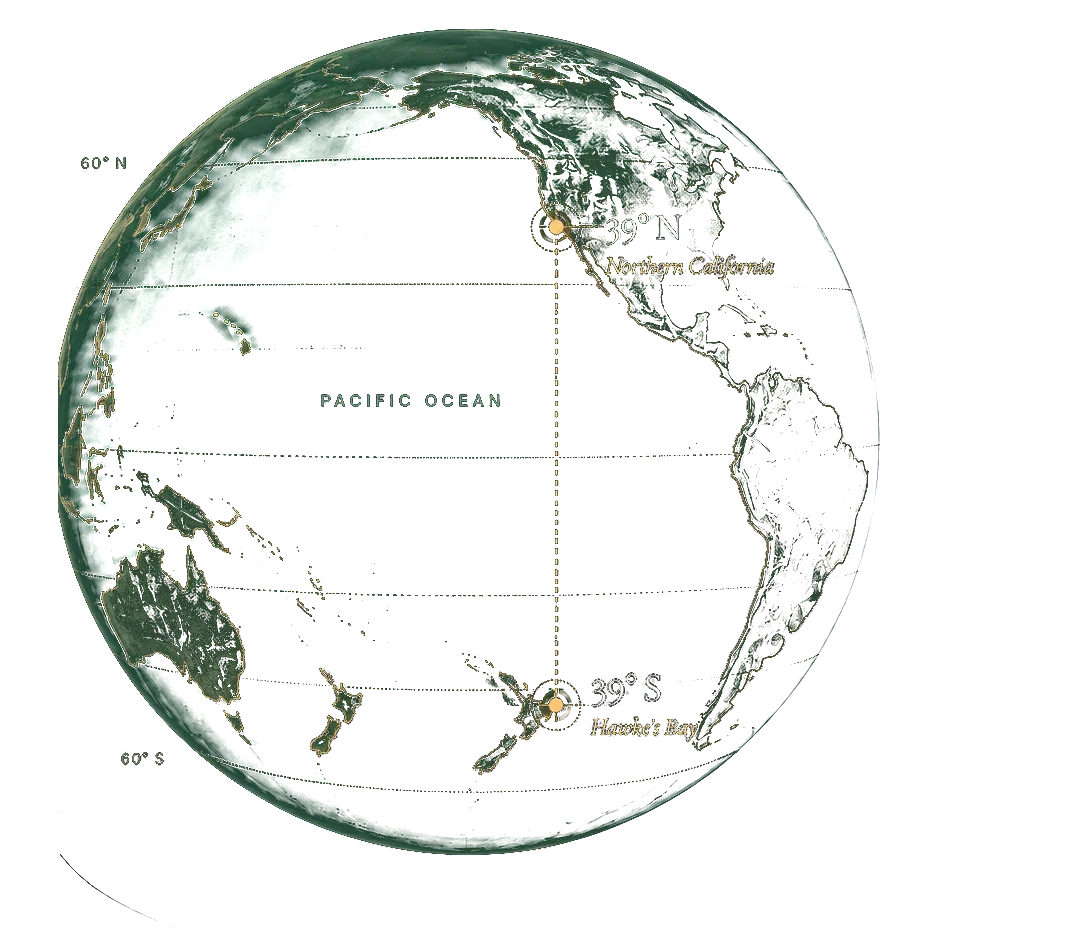
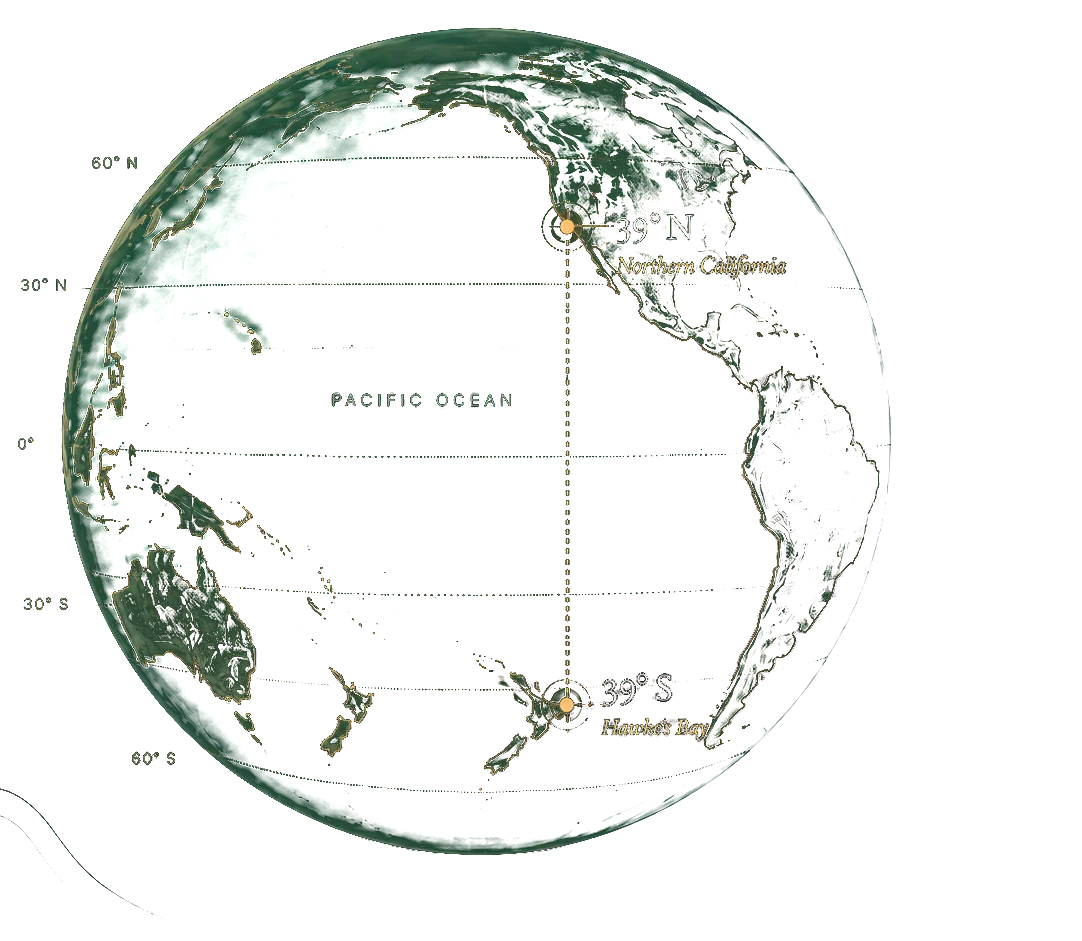
Cultivation: the CEO's third globe, every latitude label kept
This version carries no headline in the artwork, so the crop can sit
wider: the whole globe with 60N, 30N, 0, 30S and 60S all in. Keyed to the
black plate as before.

diff --git a/cultivation.html b/cultivation.html
@@ -1507,7 +1507,7 @@ html.no-video .hero-scroll{opacity:1;}
 .cl-par .cl-p{color:rgba(243,241,235,0.72);}
 .cl-question{margin:var(--s5) 0 0;font-family:var(--font-h);font-weight:300;font-size:clamp(1.5rem,2.4vw,2.2rem);line-height:1.25;max-width:22ch;color:var(--starlight);}
 .cl-par{background:#0a0d0c;}
-.cl-globe{margin:0;position:relative;aspect-ratio:1071/941;min-height:0;}
+.cl-globe{margin:0;position:relative;aspect-ratio:1082/941;min-height:0;}
 .cl-globe img{width:100%;height:100%;object-fit:cover;display:block;}
 
 /* 6 · CAPACITY - a moment of clarity: four numbers, then the statement */
@@ -1743,7 +1743,7 @@ html.no-video .hero-scroll{opacity:1;}
         <p class="cl-question reveal d3">What can exceptional cannabis expression look like in Hawke’s Bay?</p>
       </div>
       <figure class="cl-globe reveal d1">
-        <img src="assets/aho-39th-parallel-globe.webp" alt="A globe of the Pacific in deep green and gold, lines of latitude marked: Northern California at 39° north, Hawke’s Bay at 39° south, one dashed line joining them across the ocean" width="1071" height="941" loading="lazy">
+        <img src="assets/aho-39th-parallel-globe.webp" alt="A globe of the Pacific in deep green and gold, lines of latitude marked: Northern California at 39° north, Hawke’s Bay at 39° south, one dashed line joining them across the ocean" width="1082" height="941" loading="lazy">
       </figure>
     </div>
   </section>
